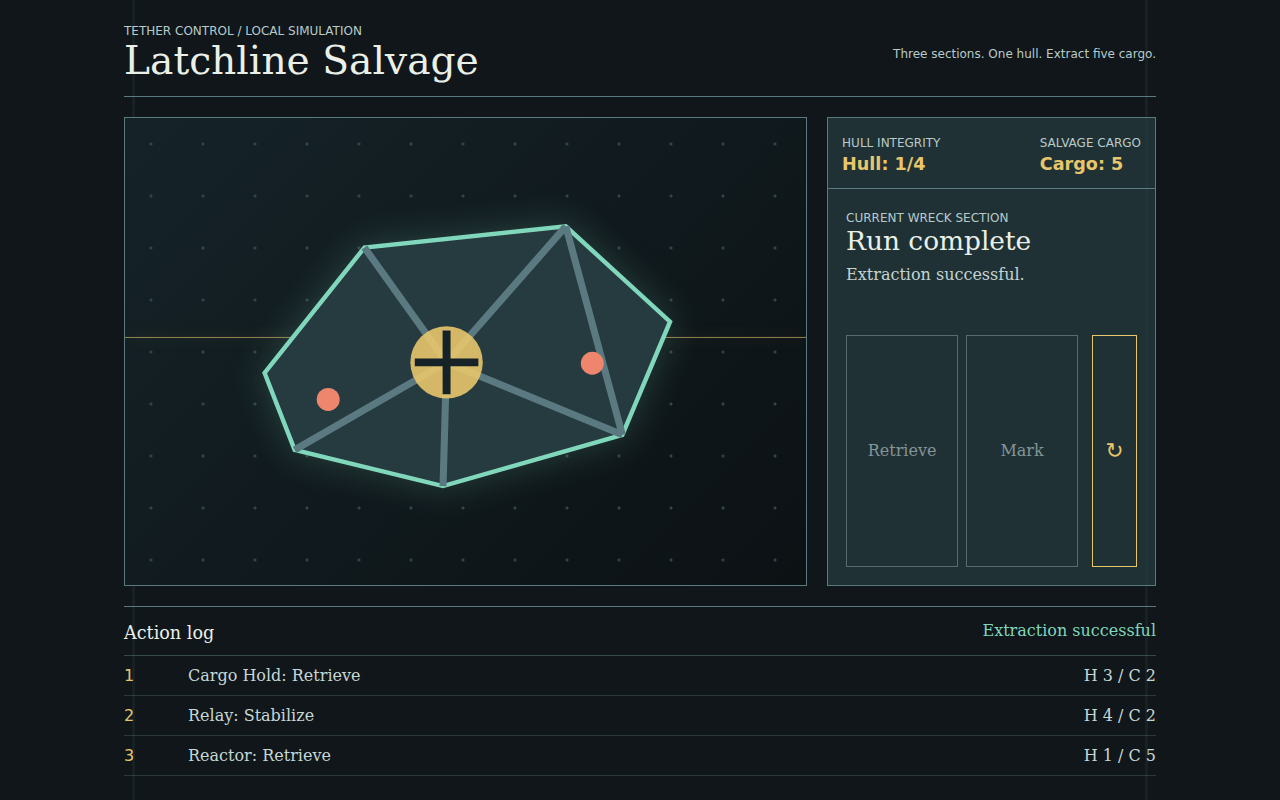
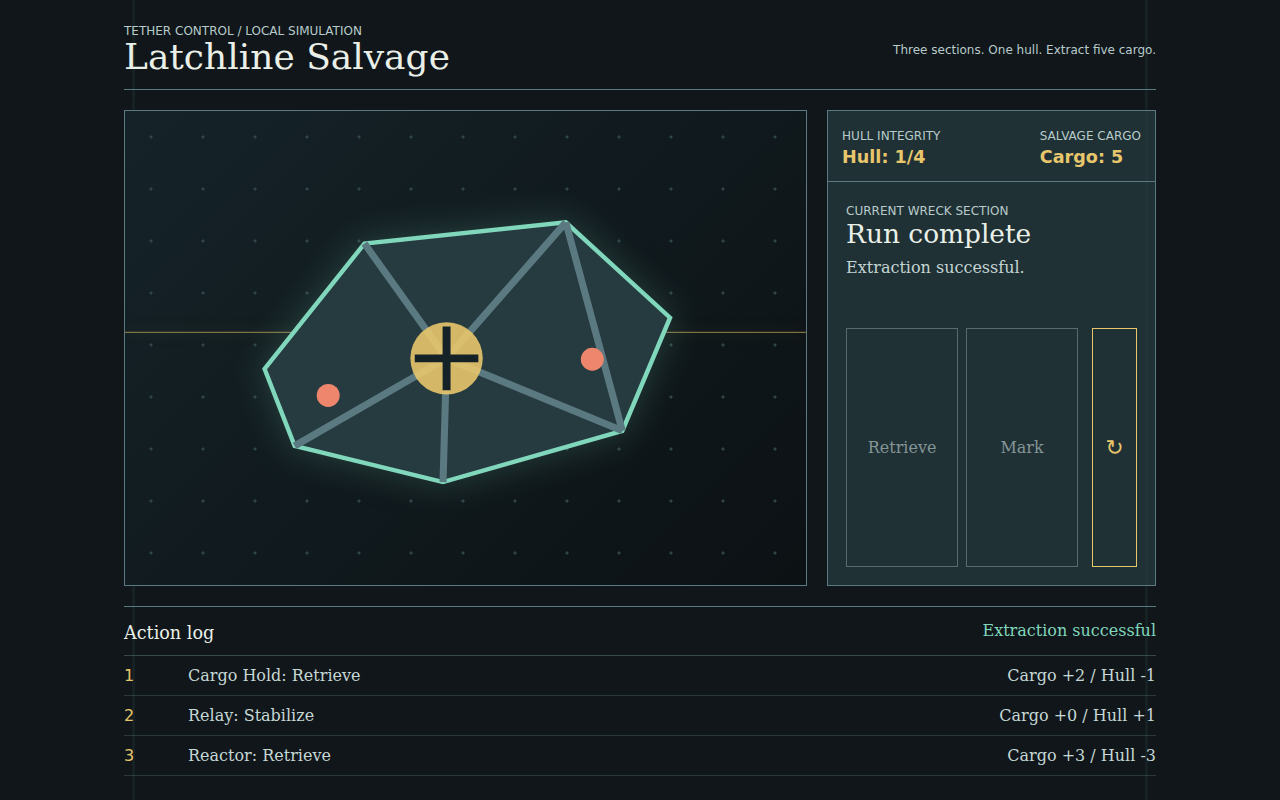
Record salvage correction evidence

diff --git a/tests/scenarios/01-new-game/validation.md b/tests/scenarios/01-new-game/validation.md
@@ -2,7 +2,7 @@
 
 ## Authority and Classification
 
-This record consumes the authoritative fixture rules in `tests/scenarios/01-new-game/design.md`. The input, approvals, and checkpoint references are constructed: prototype-scope approval is `SIMULATED USER APPROVAL S2, 2026-09-30`. This is local rule verification and developer observation, not Player Validation or evidence of production readiness.
+This record consumes the authoritative fixture rules in `tests/scenarios/01-new-game/design.md`. The input, approvals, and checkpoint references are constructed: prototype-scope approval is `SIMULATED USER APPROVAL S2, 2026-09-30`. `SIMULATED USER APPROVAL S3, 2026-09-30` is a controller-supplied authored test input, not an actual user approval; it permits one additional local zero-spend correction iteration for delta feedback, fixed typography, and evidence traceability only, with no gameplay changes. This is local rule verification and developer observation, not Player Validation or evidence of production readiness.
 
 ## Authorized Scope and Stop Condition
 
@@ -11,26 +11,29 @@ This record consumes the authoritative fixture rules in `tests/scenarios/01-new-
 | Validation question | Can a player identify the `Retrieve`, `Stabilize`, `Retrieve` route from visible outcomes? |
 | Minimum playable content | One direct-open browser screen with three sections, actions, hull/cargo, log, terminal result, and restart. |
 | Fidelity | Original static SVG wreck view, keyboard-accessible native buttons, and deterministic rules; no final art, music, research, or localization. |
-| Scope decision | Within simulated S2 scope; local-only execution, no network deployment or uploads. |
+| Scope decision | S2 scope remains local-only with no network deployment or uploads. Constructed S3 permits one additional local correction only. |
 | Spending | `$0` actual spend; within the `$0` simulated limit. |
 | Time limit | Not estimated in the fixture; no estimate is asserted here. |
-| Iteration limit | `2` maximum. Stop after the second recorded iteration. |
-| Stop condition | Required deterministic and browser checks recorded, or the iteration budget reached. |
+| Iteration limit | Original simulated S2 limit: `2`, exhausted below. Constructed S3 permits one additional correction iteration only. |
+| Stop condition | Required deterministic and browser checks recorded, or the S3 correction iteration is used. |
 
 ## Iteration Accounting
 
 | Iteration | Change or check | Evidence | Result | Budget remaining |
 | --- | --- | --- | --- | --- |
-| 1 | Implemented the rule module and static local UI after a clean missing-module red test. | `prototypes/salvage/tests/test_salvage.py`; base `dc98f2d` plus Task 3 working tree. | Eight browser-executed checks passed. | 1 |
-| 2 | Inspected terminal screenshot; corrected the disabled-action focus state, then recaptured evidence. | `prototypes/salvage/evidence/desktop-extracted.png`; base `dc98f2d` plus Task 3 working tree. | Disabled actions no longer appear selectable; checks passed. | 0 |
+| 1 | Implemented the rule module and static local UI after a clean missing-module red test. | `prototypes/salvage/tests/test_salvage.py`; source commit `7ef9dbdb720e53eac732de01e6df72f0ebec83fd`. | Eight browser-executed checks passed. | 1 under S2 |
+| 2 | Inspected terminal screenshot; corrected the disabled-action focus state, then recaptured evidence. | `prototypes/salvage/evidence/desktop-extracted.png`; source commit `7ef9dbdb720e53eac732de01e6df72f0ebec83fd`. | Disabled actions no longer appear selectable; checks passed. | 0 under S2 |
+| 3 | Constructed S3 correction: added actual cargo/hull event deltas, including capped `Hull +0`, and replaced viewport-scaled heading typography with fixed wrapping. | `prototypes/salvage/tests/test_salvage.py`, `prototypes/salvage/evidence/desktop-extracted.png`, and `mobile-initial.png`; source commit `5304c4d345a5b3b6624033873c436a12567dbcd6`. | Nine browser-executed checks, evidence capture, and skill validation passed. | 0 under S3 |
 
 ## Actual Evidence
 
 | Date | Input or command | Observed output | Artifact/log path and version | Classification | Limitation or negative result |
 | --- | --- | --- | --- | --- | --- |
-| 2026-09-30 | `PLAYWRIGHT_BROWSERS_PATH=/tmp/game-designer-browsers /tmp/game-designer-tools/bin/python -m unittest prototypes/salvage/tests/test_salvage.py` before implementation | `FAIL`: `Latchline Salvage needs its reusable browser rules module`; seven dependent tests skipped. | Terminal log; base `dc98f2d`, before `salvage-rules.js`. | rule-verification setup / expected red | An earlier preliminary run had Playwright environment lifecycle errors; those were corrected while production files were still absent, then the clean red above was captured. |
-| 2026-09-30 | Same unittest command after iteration 1 and again after iteration 2 | `Ran 8 tests ... OK`. Covers `V-01` to `V-05`, hull-priority loss, terminal no-op, hull cap, UI win/restart, and render no-state-change. | `prototypes/salvage/tests/test_salvage.py`; base `dc98f2d` plus Task 3 working tree. | rule verification | Rule tests do not establish player comprehension, fun, balance, or accessibility completeness. |
-| 2026-09-30 | `PLAYWRIGHT_BROWSERS_PATH=/tmp/game-designer-browsers /tmp/game-designer-tools/bin/python prototypes/salvage/tests/capture_evidence.py` | Desktop/mobile no horizontal overflow or console errors; render unchanged; visible extracted, hull-breach, and cargo-target-missed terminals passed. | `prototypes/salvage/evidence/desktop-initial.png`, `desktop-extracted.png`, `mobile-initial.png`; base `dc98f2d` plus Task 3 working tree. | developer observation | Browser automation is not a player study. |
+| 2026-09-30 | `PLAYWRIGHT_BROWSERS_PATH=/tmp/game-designer-browsers /tmp/game-designer-tools/bin/python -m unittest prototypes/salvage/tests/test_salvage.py` before implementation | `FAIL`: `Latchline Salvage needs its reusable browser rules module`; seven dependent tests skipped. | Terminal log; prototype source baseline `dc98f2d` before `salvage-rules.js`. | rule-verification setup / expected red | An earlier preliminary run had Playwright environment lifecycle errors; those were corrected while production files were still absent, then the clean red above was captured. |
+| 2026-09-30 | Same unittest command after iterations 1 and 2 | `Ran 8 tests ... OK`. Covers `V-01` to `V-05`, hull-priority loss, terminal no-op, hull cap, UI win/restart, and render no-state-change. | `prototypes/salvage/tests/test_salvage.py`; source commit `7ef9dbdb720e53eac732de01e6df72f0ebec83fd`. | rule verification | Rule tests do not establish player comprehension, fun, balance, or accessibility completeness. |
+| 2026-09-30 | `PLAYWRIGHT_BROWSERS_PATH=/tmp/game-designer-browsers /tmp/game-designer-tools/bin/python prototypes/salvage/tests/capture_evidence.py` after iterations 1 and 2 | Desktop/mobile no horizontal overflow or console errors; render unchanged; visible extracted, hull-breach, and cargo-target-missed terminals passed. | `prototypes/salvage/evidence/desktop-initial.png`, `desktop-extracted.png`, `mobile-initial.png`; source commit `7ef9dbdb720e53eac732de01e6df72f0ebec83fd`. | developer observation | Browser automation is not a player study. |
+| 2026-09-30 | `PLAYWRIGHT_BROWSERS_PATH=/tmp/game-designer-browsers /tmp/game-designer-tools/bin/python -m unittest prototypes/salvage/tests/test_salvage.py` | `Ran 9 tests ... OK`, including `Cargo +2 / Hull -1`, `Cargo +0 / Hull +1`, and capped `Cargo +0 / Hull +0` UI log assertions. | `prototypes/salvage/tests/test_salvage.py`; source commit `5304c4d345a5b3b6624033873c436a12567dbcd6`. | rule verification | Tests establish rendered values for these deterministic inputs, not comprehension. |
+| 2026-09-30 | `PLAYWRIGHT_BROWSERS_PATH=/tmp/game-designer-browsers /tmp/game-designer-tools/bin/python prototypes/salvage/tests/capture_evidence.py` | Desktop/mobile no horizontal overflow or console errors; render unchanged; visible extracted, hull-breach, and cargo-target-missed terminals passed. | `prototypes/salvage/evidence/desktop-initial.png`, `desktop-extracted.png`, `mobile-initial.png`; source commit `5304c4d345a5b3b6624033873c436a12567dbcd6`. | developer observation | Browser automation is not a player study. |
 
 ## Planned and Outstanding Validation
 

diff --git a/.superpowers/sdd/2026-09-30-game-designer/task-3-report.md b/.superpowers/sdd/2026-09-30-game-designer/task-3-report.md
@@ -40,3 +40,16 @@ Observed: `Evidence checks passed: desktop/mobile no overflow, no console errors
 - Iteration 1 implemented rules/UI and passed deterministic checks. Iteration 2 corrected a screenshot-observed disabled-button focus state and recaptured evidence. The fixture's maximum of two iterations is exhausted.
 - Rule tests verify `R-01` through `R-09` behavior exercised by `V-01` through `V-05`, the hull cap, terminal input no-op, UI restart, and render without state change. Browser evidence confirms visible extraction, hull-breach priority, and cargo-target-missed results.
 - No Player Validation occurred. The result does not demonstrate comprehension of the winning route, fun, balance, accessibility completeness, feasibility, or production readiness.
+
+## Fix Round 1
+
+- Controller-supplied constructed input `SIMULATED USER APPROVAL S3, 2026-09-30` permits exactly one additional local, zero-spend correction iteration for delta feedback, fixed typography, and evidence traceability. It is not an actual user approval; original S2 and its exhausted two-iteration history remain recorded unchanged.
+- Code/test source commit: `5304c4d345a5b3b6624033873c436a12567dbcd6` (`Show salvage action deltas`). The action log now displays actual per-event `Cargo` and `Hull` deltas, including capped recovery `Cargo +0 / Hull +0`; it does not alter the canonical event schema or gameplay rules. The `h1` now uses a fixed `2.25rem` size with wrapping instead of viewport-scaled typography.
+- RED: the new focused UI test failed because `Cargo +2 / Hull -1` was absent from the original log. GREEN against `5304c4d345a5b3b6624033873c436a12567dbcd6`: `Ran 9 tests ... OK`.
+- Evidence command against the same source commit:
+
+  ```sh
+  PLAYWRIGHT_BROWSERS_PATH=/tmp/game-designer-browsers /tmp/game-designer-tools/bin/python prototypes/salvage/tests/capture_evidence.py
+  ```
+
+  Observed: desktop/mobile no overflow or console errors, unchanged render state, and the three terminal paths. Refreshed artifacts: `prototypes/salvage/evidence/desktop-initial.png`, `desktop-extracted.png`, and `mobile-initial.png`. `quick_validate.py .agents/skills/design-prototype` also reported `Skill is valid!`.

diff --git a/tests/scenarios/01-new-game/design.md b/tests/scenarios/01-new-game/design.md
@@ -19,6 +19,12 @@ This is an authoring-time constructed exercise of `gameplay-design` and `system-
 | Core gameplay and prototype scope | confirmed | `SIMULATED USER APPROVAL S2, 2026-09-30: "Approve Latchline Salvage, the three-turn local prototype, zero spend, and at most two iterations."` | Fixture only |
 | Development Handoff Draft | pending | none | No simulated handoff approval supplied |
 
+## Simulated Approval History
+
+| Reference | Constructed input | Scope and provenance |
+| --- | --- | --- |
+| `S3` | `SIMULATED USER APPROVAL S3, 2026-09-30: permit one additional local zero-spend correction iteration for delta feedback, fixed typography and evidence traceability, no gameplay changes` | Authored test input supplied by the controller for this fixture, not an actual user approval. It authorizes only one additional finite local correction iteration after the original S2 maximum of two was exhausted. |
+
 ## Gameplay Proposal
 
 ### Core Loop
